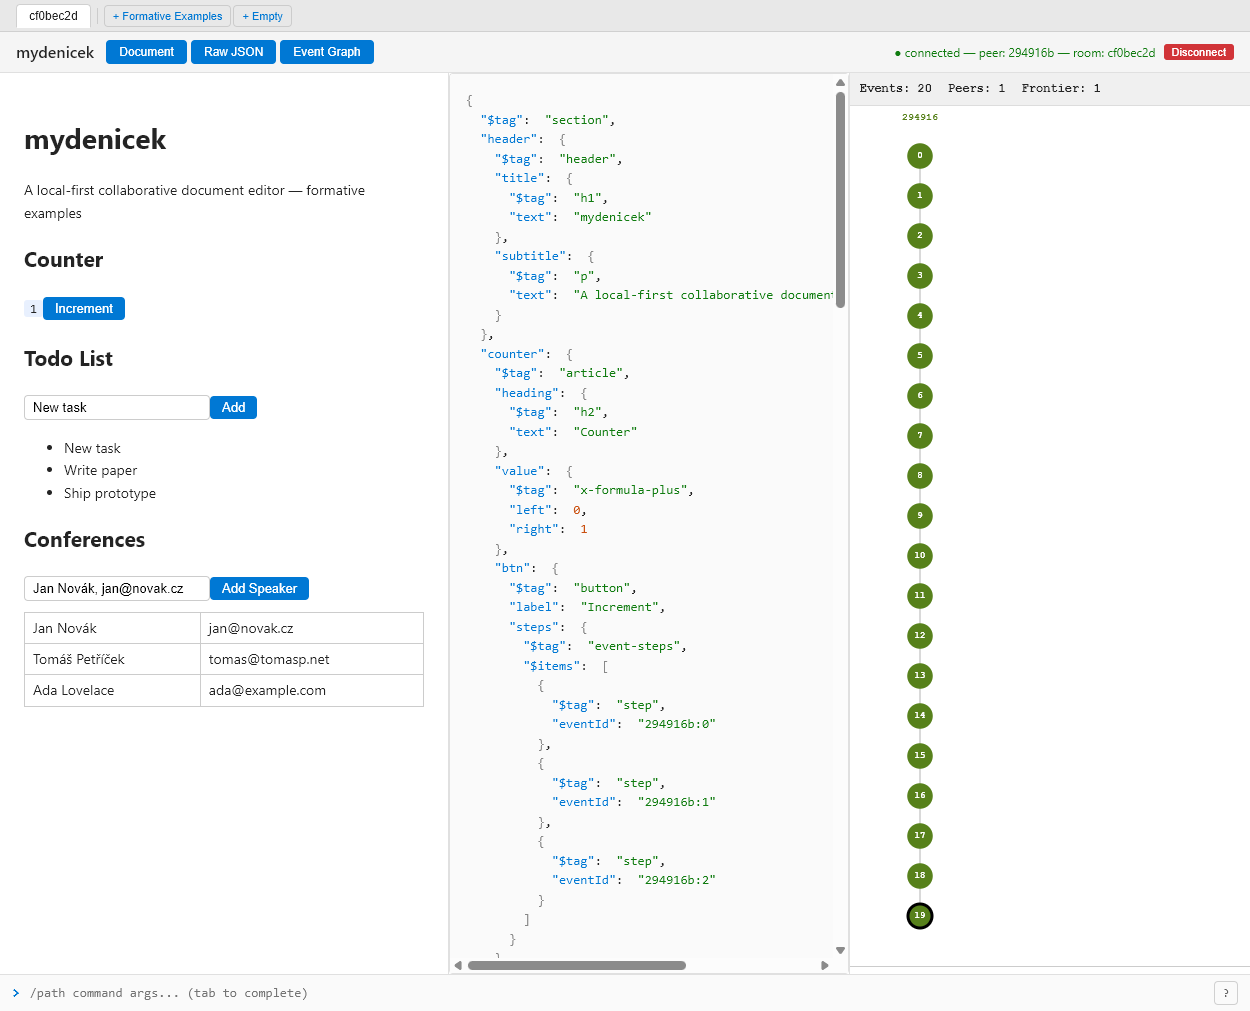
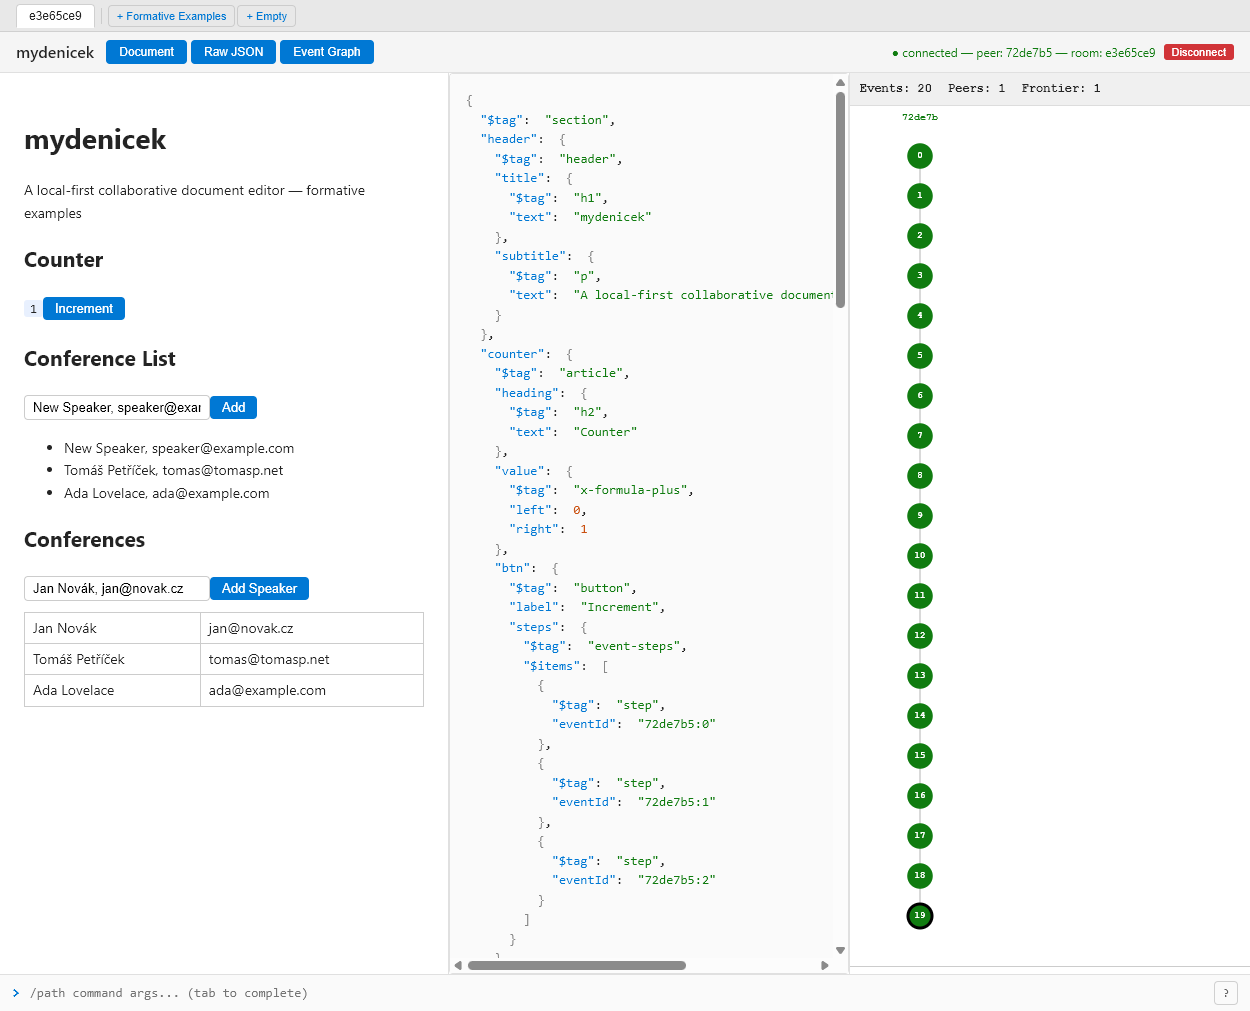
feat: rename Todo List → Conference List, restructure slides, add Future Work
- initializeDocument.ts: todoList → conferenceList with speaker data
- Slides: Counter → Conference List → Refactor to Table flow
- New screenshots: conference list before/after add
- Future Work slide: optimized core, model-guided fuzzing, myDatnicek

diff --git a/docs/presentation.html b/docs/presentation.html
@@ -85,10 +85,10 @@
 </section>
 
 <!-- ═══════════════════════════════════════════════════════════════════ -->
-<!-- END RESULT: COUNTER -->
+<!-- DEMO 1: COUNTER -->
 <!-- ═══════════════════════════════════════════════════════════════════ -->
 <section>
-  <h2>Counter — Formulas & Replay</h2>
+  <h2>Demo 1: Counter — Formulas & Replay</h2>
   <div class="cols">
     <div>
       <img src="slides-assets/04-counter-4.png" class="screenshot" alt="Counter after 4 increments" />
@@ -101,29 +101,52 @@
         <li>Add <code>right = 1</code></li>
       </ol>
       <p>Formula evaluates nested plus-tree:<br/><code>((((0 + 1) + 1) + 1) + 1) = 4</code></p>
-      <p class="small">JSON shows the nested x-formula-plus structure</p>
+      <p class="small">JSON &amp; event graph show the growing structure in real time</p>
     </div>
   </div>
 </section>
 
 <!-- ═══════════════════════════════════════════════════════════════════ -->
-<!-- END RESULT: CONFERENCE TABLE -->
+<!-- DEMO 2: CONFERENCE LIST -->
 <!-- ═══════════════════════════════════════════════════════════════════ -->
 <section>
-  <h2>Conference Table — Structural Transforms</h2>
+  <h2>Demo 2: Conference List — Composer Pattern</h2>
   <div class="cols">
     <div>
-      <img src="slides-assets/08-conf-after.png" class="screenshot" alt="Conference table with split columns" />
+      <img src="slides-assets/12-conf-list-before.png" class="screenshot-sm" alt="Conference list before add" style="margin-bottom:8px" />
+      <img src="slides-assets/13-conf-list-after.png" class="screenshot-sm" alt="Conference list after add" />
     </div>
     <div>
-      <p>"<code>Name, email</code>" input → <strong>split into columns</strong></p>
-      <p>The table was <strong>refactored</strong> from a flat list using structural edits:</p>
-      <ul>
-        <li><code>updateTag</code> — ul → table, li → tr</li>
-        <li><code>wrapList</code> — wrap items in rows</li>
-        <li><code>splitFirst</code> / <code>splitRest</code> — custom primitive edits</li>
-      </ul>
-      <p class="small">All edits are events in the DAG — visible in the event graph panel</p>
+      <p>A flat <code>&lt;ul&gt;</code> with <code>"Name, email"</code> entries.</p>
+      <p>The <strong>Add button</strong> replays a 2-step recipe:</p>
+      <ol>
+        <li><code>pushFront</code> — insert empty <code>&lt;li&gt;</code></li>
+        <li><code>copy</code> — fill it from the input field</li>
+      </ol>
+      <p>Same pattern works for any list with a composer input.</p>
+      <p class="small">This is the "before" — next we'll refactor it into a table.</p>
+    </div>
+  </div>
+</section>
+
+<!-- ═══════════════════════════════════════════════════════════════════ -->
+<!-- DEMO 3: REFACTOR LIST → TABLE -->
+<!-- ═══════════════════════════════════════════════════════════════════ -->
+<section>
+  <h2>Demo 3: List → Table Refactoring</h2>
+  <div class="cols">
+    <div>
+      <img src="slides-assets/14-conf-table.png" class="screenshot-sm" alt="Conference table with split columns" />
+    </div>
+    <div>
+      <p>Structural edits transform the list <strong>in place</strong>:</p>
+      <pre><code>/speakers updateTag table
+/speakers/* updateTag tr
+/speakers/* wrapList tr
+/speakers/*/name splitFirst ", "</code></pre>
+      <p><code>"Name, email"</code> → split into <strong>separate columns</strong></p>
+      <p>These are <strong>recorded events</strong> — a second peer receives them via sync and sees the same table.</p>
+      <p class="small">The <code>*</code> wildcard applies edits to all items at once.</p>
     </div>
   </div>
 </section>
@@ -133,7 +156,7 @@
 <!-- ═══════════════════════════════════════════════════════════════════ -->
 <section>
   <h2>Building From Scratch</h2>
-  <p>Let's build a conference list from an empty document.</p>
+  <p>The same conference list can be built from an empty document.</p>
   <img src="slides-assets/20-empty-start.png" class="screenshot" alt="Empty document" />
   <p class="small">Start: <code>{ "$tag": "root" }</code> — command bar at the bottom</p>
 </section>
@@ -389,6 +412,19 @@
     <strong>Code:</strong> <a href="https://github.com/krsion/mydenicek">github.com/krsion/mydenicek</a><br/>
     <strong>JSR:</strong> <a href="https://jsr.io/@mydenicek/core">@mydenicek/core</a> · <a href="https://jsr.io/@mydenicek/react">@mydenicek/react</a>
   </p>
+</section>
+
+<!-- ═══════════════════════════════════════════════════════════════════ -->
+<!-- FUTURE WORK -->
+<!-- ═══════════════════════════════════════════════════════════════════ -->
+<section>
+  <h2>Future Work</h2>
+  <ul>
+    <li><strong>Optimized implementation</strong> — the current replay-from-scratch engine is correct but slow for large documents. Build an <strong>incremental</strong> version that caches partial materializations.</li>
+    <li><strong>Model-guided fuzzing</strong> — use this implementation as a <strong>reference oracle</strong> to fuzz-test the optimized one. Generate random edit sequences, run both, compare outputs.</li>
+    <li><strong>myDatnicek</strong> — a data-oriented variant built on the optimized core, capable of handling <strong>larger datasets</strong> (spreadsheets, databases) while preserving local-first collaboration.</li>
+    <li><strong>Compaction</strong> — garbage-collect old events once all peers have seen them, reducing DAG size.</li>
+  </ul>
 </section>
 
 <!-- ═══════════════════════════════════════════════════════════════════ -->

diff --git a/apps/mywebnicek/src/initializeDocument.ts b/apps/mywebnicek/src/initializeDocument.ts
@@ -50,13 +50,13 @@ export const INITIAL_DOCUMENT: PlainNode = {
     },
   },
 
-  // ── 2. Todo List (composer + list) ─────────────────────────────────
-  todoList: {
+  // ── 2. Conference List (composer + list) ─────────────────────────────
+  conferenceList: {
     $tag: "article",
-    heading: { $tag: "h2", text: "Todo List" },
+    heading: { $tag: "h2", text: "Conference List" },
     composer: {
       $tag: "composer",
-      input: { $tag: "input", value: "New task" },
+      input: { $tag: "input", value: "New Speaker, speaker@example.com" },
       addAction: {
         $tag: "button",
         label: "Add",
@@ -66,8 +66,8 @@ export const INITIAL_DOCUMENT: PlainNode = {
     items: {
       $tag: "ul",
       $items: [
-        { $tag: "li", text: "Write paper" },
-        { $tag: "li", text: "Ship prototype" },
+        { $tag: "li", text: "Tomáš Petříček, tomas@tomasp.net" },
+        { $tag: "li", text: "Ada Lovelace, ada@example.com" },
       ],
     },
   },
@@ -117,21 +117,21 @@ export function initializeActions(dk: Denicek): void {
   dk.pushBack("counter/btn/steps", { $tag: "step", eventId: renameId });
   dk.pushBack("counter/btn/steps", { $tag: "step", eventId: addRightId });
 
-  // ── Todo: record the "add item from input" recipe ────────────────
-  const pushId = dk.pushFront("todoList/items", {
+  // ── Conference List: record the "add speaker from input" recipe ────
+  const pushId = dk.pushFront("conferenceList/items", {
     $tag: "li",
     text: "",
   });
   const copyId = dk.copy(
-    "todoList/items/!0/text",
-    "todoList/composer/input/value",
+    "conferenceList/items/!0/text",
+    "conferenceList/composer/input/value",
   );
 
-  dk.pushBack("todoList/composer/addAction/steps", {
+  dk.pushBack("conferenceList/composer/addAction/steps", {
     $tag: "step",
     eventId: pushId,
   });
-  dk.pushBack("todoList/composer/addAction/steps", {
+  dk.pushBack("conferenceList/composer/addAction/steps", {
     $tag: "step",
     eventId: copyId,
   });
